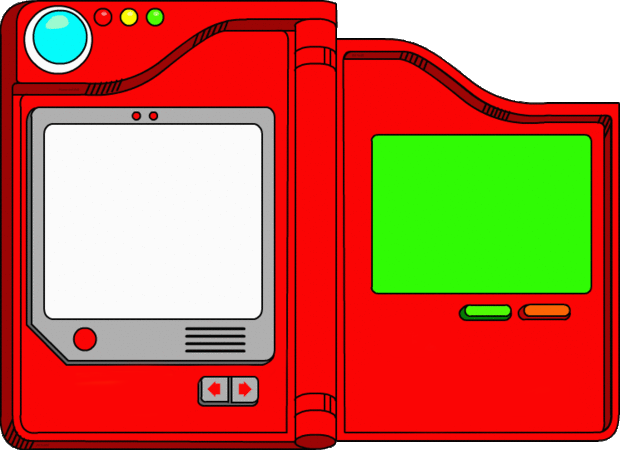
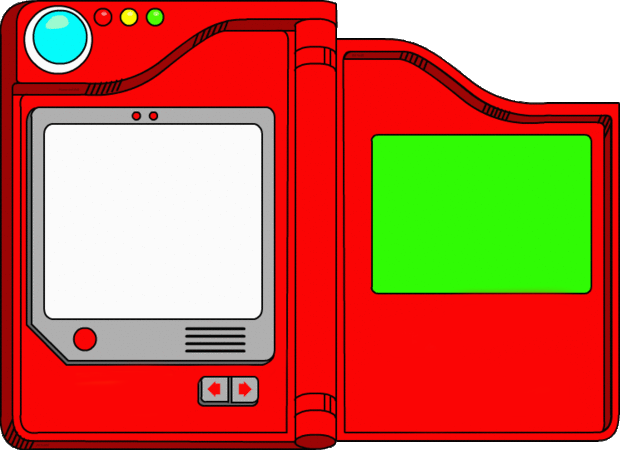
Adding stats and evolutions

Changed region(s): [[0.7355, 0.6222, 0.9194, 0.7156]]

diff --git a/css/styles.css b/css/styles.css
@@ -25,7 +25,7 @@ html, body{
   text-decoration: none;
 }
 .go-home{
-  background: #FBF955;
+  background: #509bfc;
   border-radius: 7px;
   border: 1px solid black;
   bottom: 40px;
@@ -65,28 +65,93 @@ pokemon-name img{
   max-height: 137px;
   max-width: 100%;
 }
-pokemon-data{
+pokemon-data, .stats ul, .evolutions .evolution{
   display: block;
   font-family: 'PokemonGB';
   font-size: 12px;
-  height: 280px;
+  height: 160px;
   left: 360px;
-  top: 145px;
-  position: absolute;
   max-width: 240px;
+  position: absolute;
+  text-transform: capitalize;
+  top: 145px;
+}
+.stats ul{
+  line-height: 16px;
+}
+.evolutions .evolution{
+  text-align: center;
+  overflow-y: scroll;
+  height: 155px;
+  width: 219px;
+  left: 380px;
+}
+.evolutions .evolution a{
+  color: black;
+  text-decoration: none;
+}
+.evolutions a img{
+  max-width: 100%;
+  height: 100px;
+}
+.evolutions .evolution .down-arrow{
+
 }
 pokemon-data li{
   margin-top: 5px;
 }
+pokemon-buttons{
+  position: absolute;
+  left: 390px;
+  top: 70%;
+  z-index: 1;
+}
+pokemon-buttons .info, pokemon-buttons .stats, pokemon-buttons .evol{
+  background: #057c05;
+  border-bottom: 2px solid;
+  border-left: 2px solid;
+  border-radius: 8px;
+  display: inline-block;
+  font-size: 10px;
+  padding: 0 2px 2px;
+  text-align: center;
+  width: 52px;
+}
+pokemon-buttons .stats{
+  background: #b5b501;
+}
+pokemon-buttons .evol{
+  background: #bb0505;
+}
+pokemon-buttons .info a, pokemon-buttons .stats a, pokemon-buttons .evol a{
+  background: #50fb05;
+  border: 1px solid black;
+  border-radius: 5px;
+  color: black;
+  cursor: pointer;
+  display: inline-block;
+  font-family: 'PokemonGB';
+  padding: 2px;
+  text-decoration: none;
+  width: 48px;
+}
+pokemon-buttons .stats a{
+  background: #fbfb05;
+}
+pokemon-buttons .evol a{
+  background: #f56305;
+}
 pokemon-type{
   position: absolute;
-  bottom: 0;
+  bottom: 40px;
+  left: 57%;
 }
 pokemon-type a{
   border-radius: 2px;
   box-sizing: border-box;
   color: white;
   display: inline-block;
+  font-family: 'PokemonGB';
   font-size: 11px;
   height: 40px;
   margin-left: 20px;

diff --git a/views/pokemon.html b/views/pokemon.html
@@ -3,24 +3,27 @@
 		<div class="pokemon__pokedex">
 			<pokemon-name></pokemon-name>
 			<a class="go-home" href="#/">Go home</a>
+			<pokemon-buttons></pokemon-buttons>
+			<pokemon-type></pokemon-type>
 		</div>
-		
-		<!--<p ng-class="{active : tabs.tab == 1}"><a ng-click="tabs.setTab(1)">Pokedex</a></p>
-		<p ng-class="{active : tabs.tab == 2}"><a ng-click="tabs.setTab(2)">Stats</a></p>
-		<p ng-class="{active : tabs.tab == 3}"><a ng-click="tabs.setTab(3)">Evolutions</a></p>
-		<div class="pokedex" ng-show="tabs.tab === 1">-->
-		<pokemon-data></pokemon-data>
-	</div>
-	<div class="stats" ng-show="tabs.tab === 2">
-		<ul>
-			<li ng-repeat="(key, value) in pokemon.stats"><strong>{{key}}: </strong>{{value}}</li>
-		</ul>
-	</div>
-	<div class="evolutions"  ng-show="tabs.tab === 3">
-		<a ng-repeat="evolution in pokemon.evolution" href="#pokemon/{{evolution | normalize }}">
-			<img src="{{evolution | imageify}}" alt="">
-			<p><strong>{{evolution}}</strong></p>
-			<span ng-hide="$last">down</span>
-		</a>
+		<div class="pokedex" ng-show="tabs.tab === 1">
+			<pokemon-data></pokemon-data>
+		</div>
+		<div class="stats" ng-show="tabs.tab === 2">
+			<ul>
+				<li ng-repeat="(key, value) in pokemon.stats"><strong>{{key}}: </strong>{{value}}</li>
+			</ul>
+		</div>
+		<div class="evolutions"  ng-show="tabs.tab === 3">
+			<div class="evolution">
+				<div ng-repeat="evolution in pokemon.evolution">
+					<a href="#pokemon/{{evolution | normalize }}">
+						<p><strong>{{evolution}}</strong></p>
+						<img src="{{evolution | imageify}}" alt="">
+					</a>
+					<p><img class="down-arrow" src='img/arrow-down.png' ng-hide="$last" /></p>
+				</div>
+			</div>
+		</div>
 	</div>
 </div>

diff --git a/partials/pokemon-buttons.html b/partials/pokemon-buttons.html
@@ -1,0 +1,9 @@
+<div class="info">
+	<a ng-class="{active : tabs.tab == 1}" ng-click="tabs.setTab(1)">Info</a>
+</div>
+<div class="stats">
+	<a ng-class="{active : tabs.tab == 2}" ng-click="tabs.setTab(2)">Stats</a>
+</div>
+<div ng-hide="pokemon.evolution.length == 0" class="evol">
+	<a ng-class="{active : tabs.tab == 3}" ng-click="tabs.setTab(3)">Evol</a>
+</div>

diff --git a/js/directives.js b/js/directives.js
@@ -15,6 +15,12 @@
 			}
 		}
 	})
+	.directive('pokemonButtons',function(){
+		return {
+			restrict: 'E',
+			templateUrl: 'partials/pokemon-buttons.html'
+		}
+	})
 	.directive('pokemonType',function(){
 		return {
 			restrict: 'E',

diff --git a/partials/pokemon-data.html b/partials/pokemon-data.html
@@ -7,4 +7,3 @@
 		</ul>
 	</li>
 </ul>
-<pokemon-type></pokemon-type>
